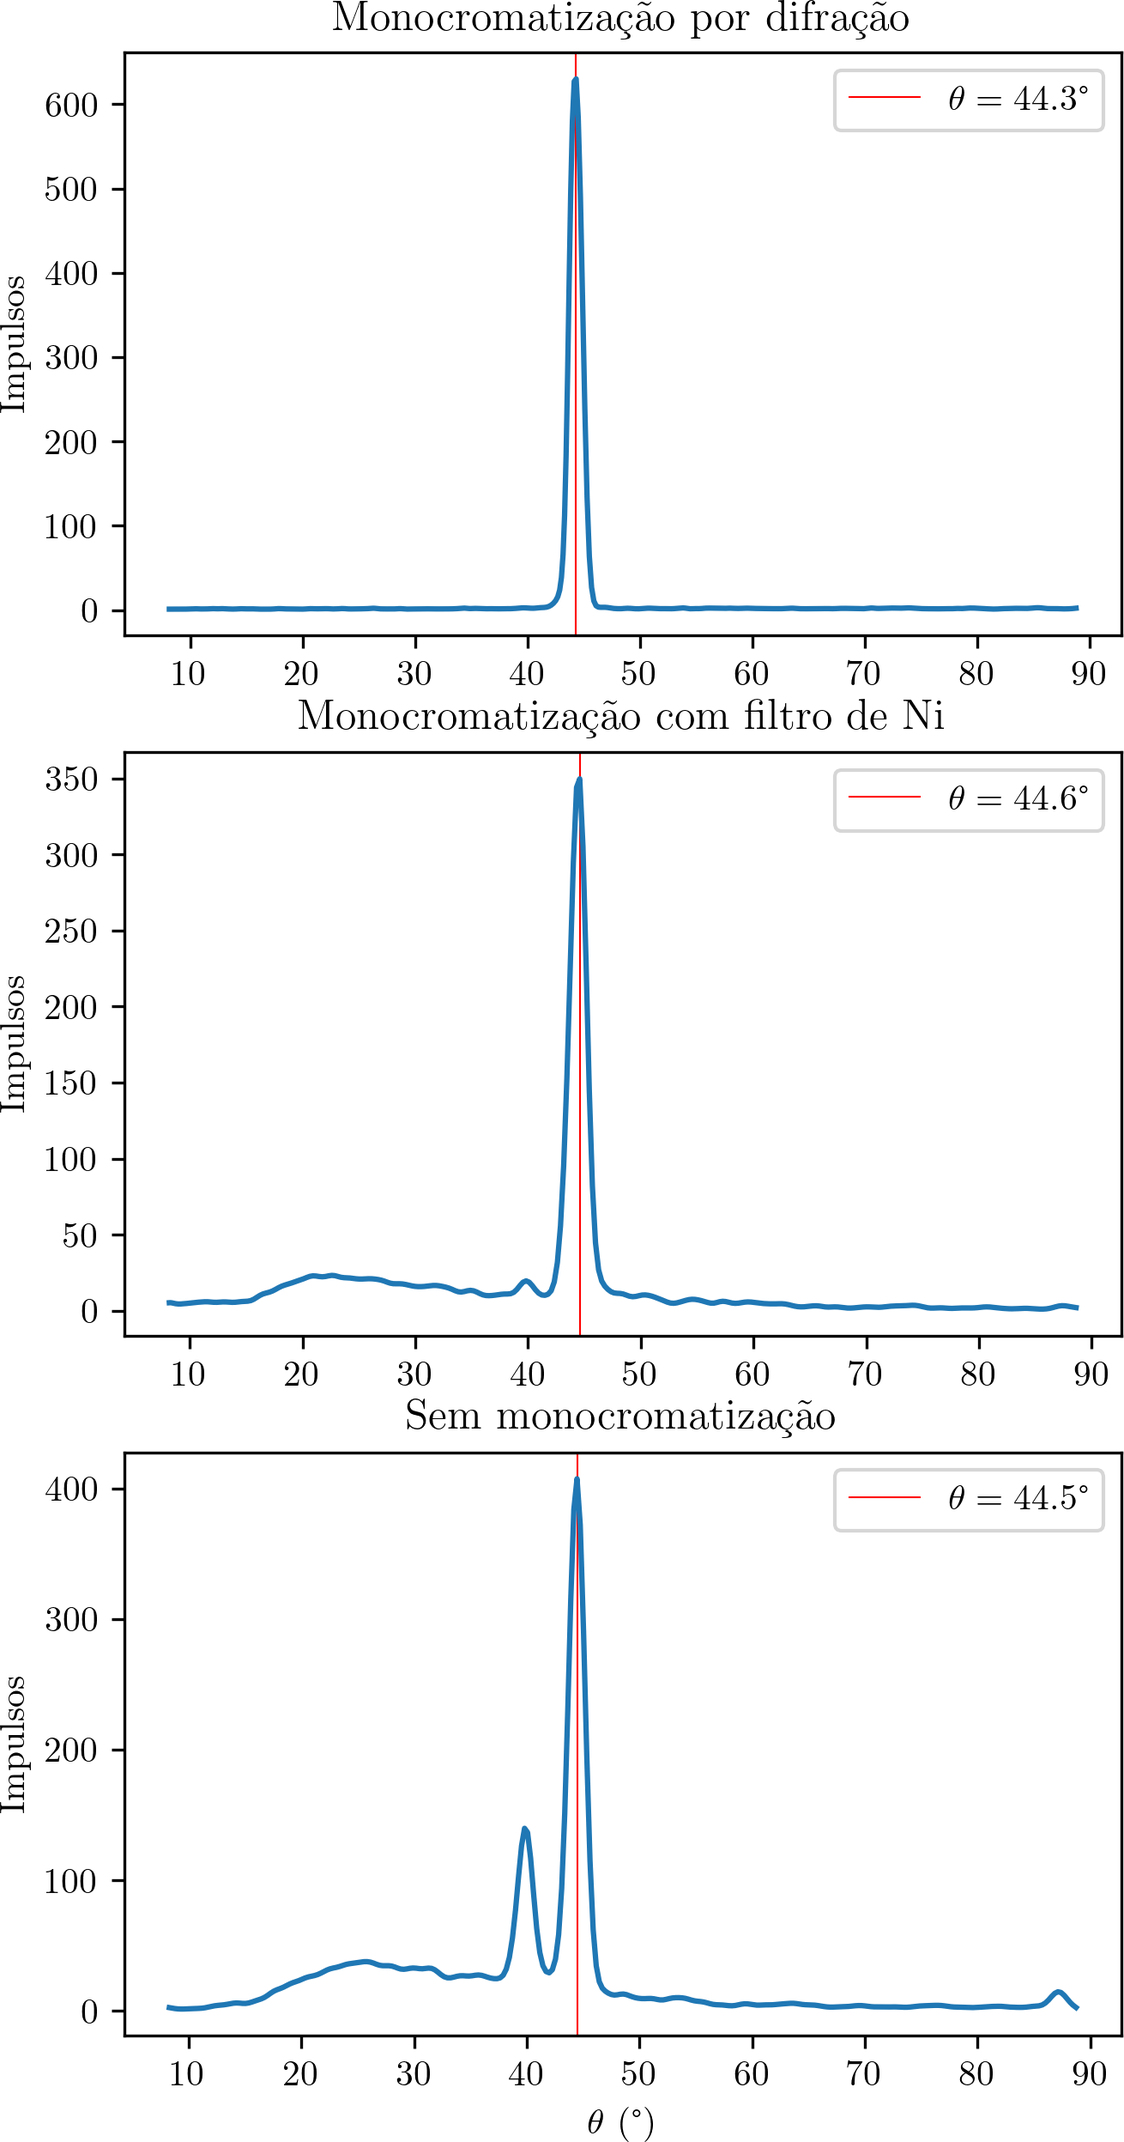
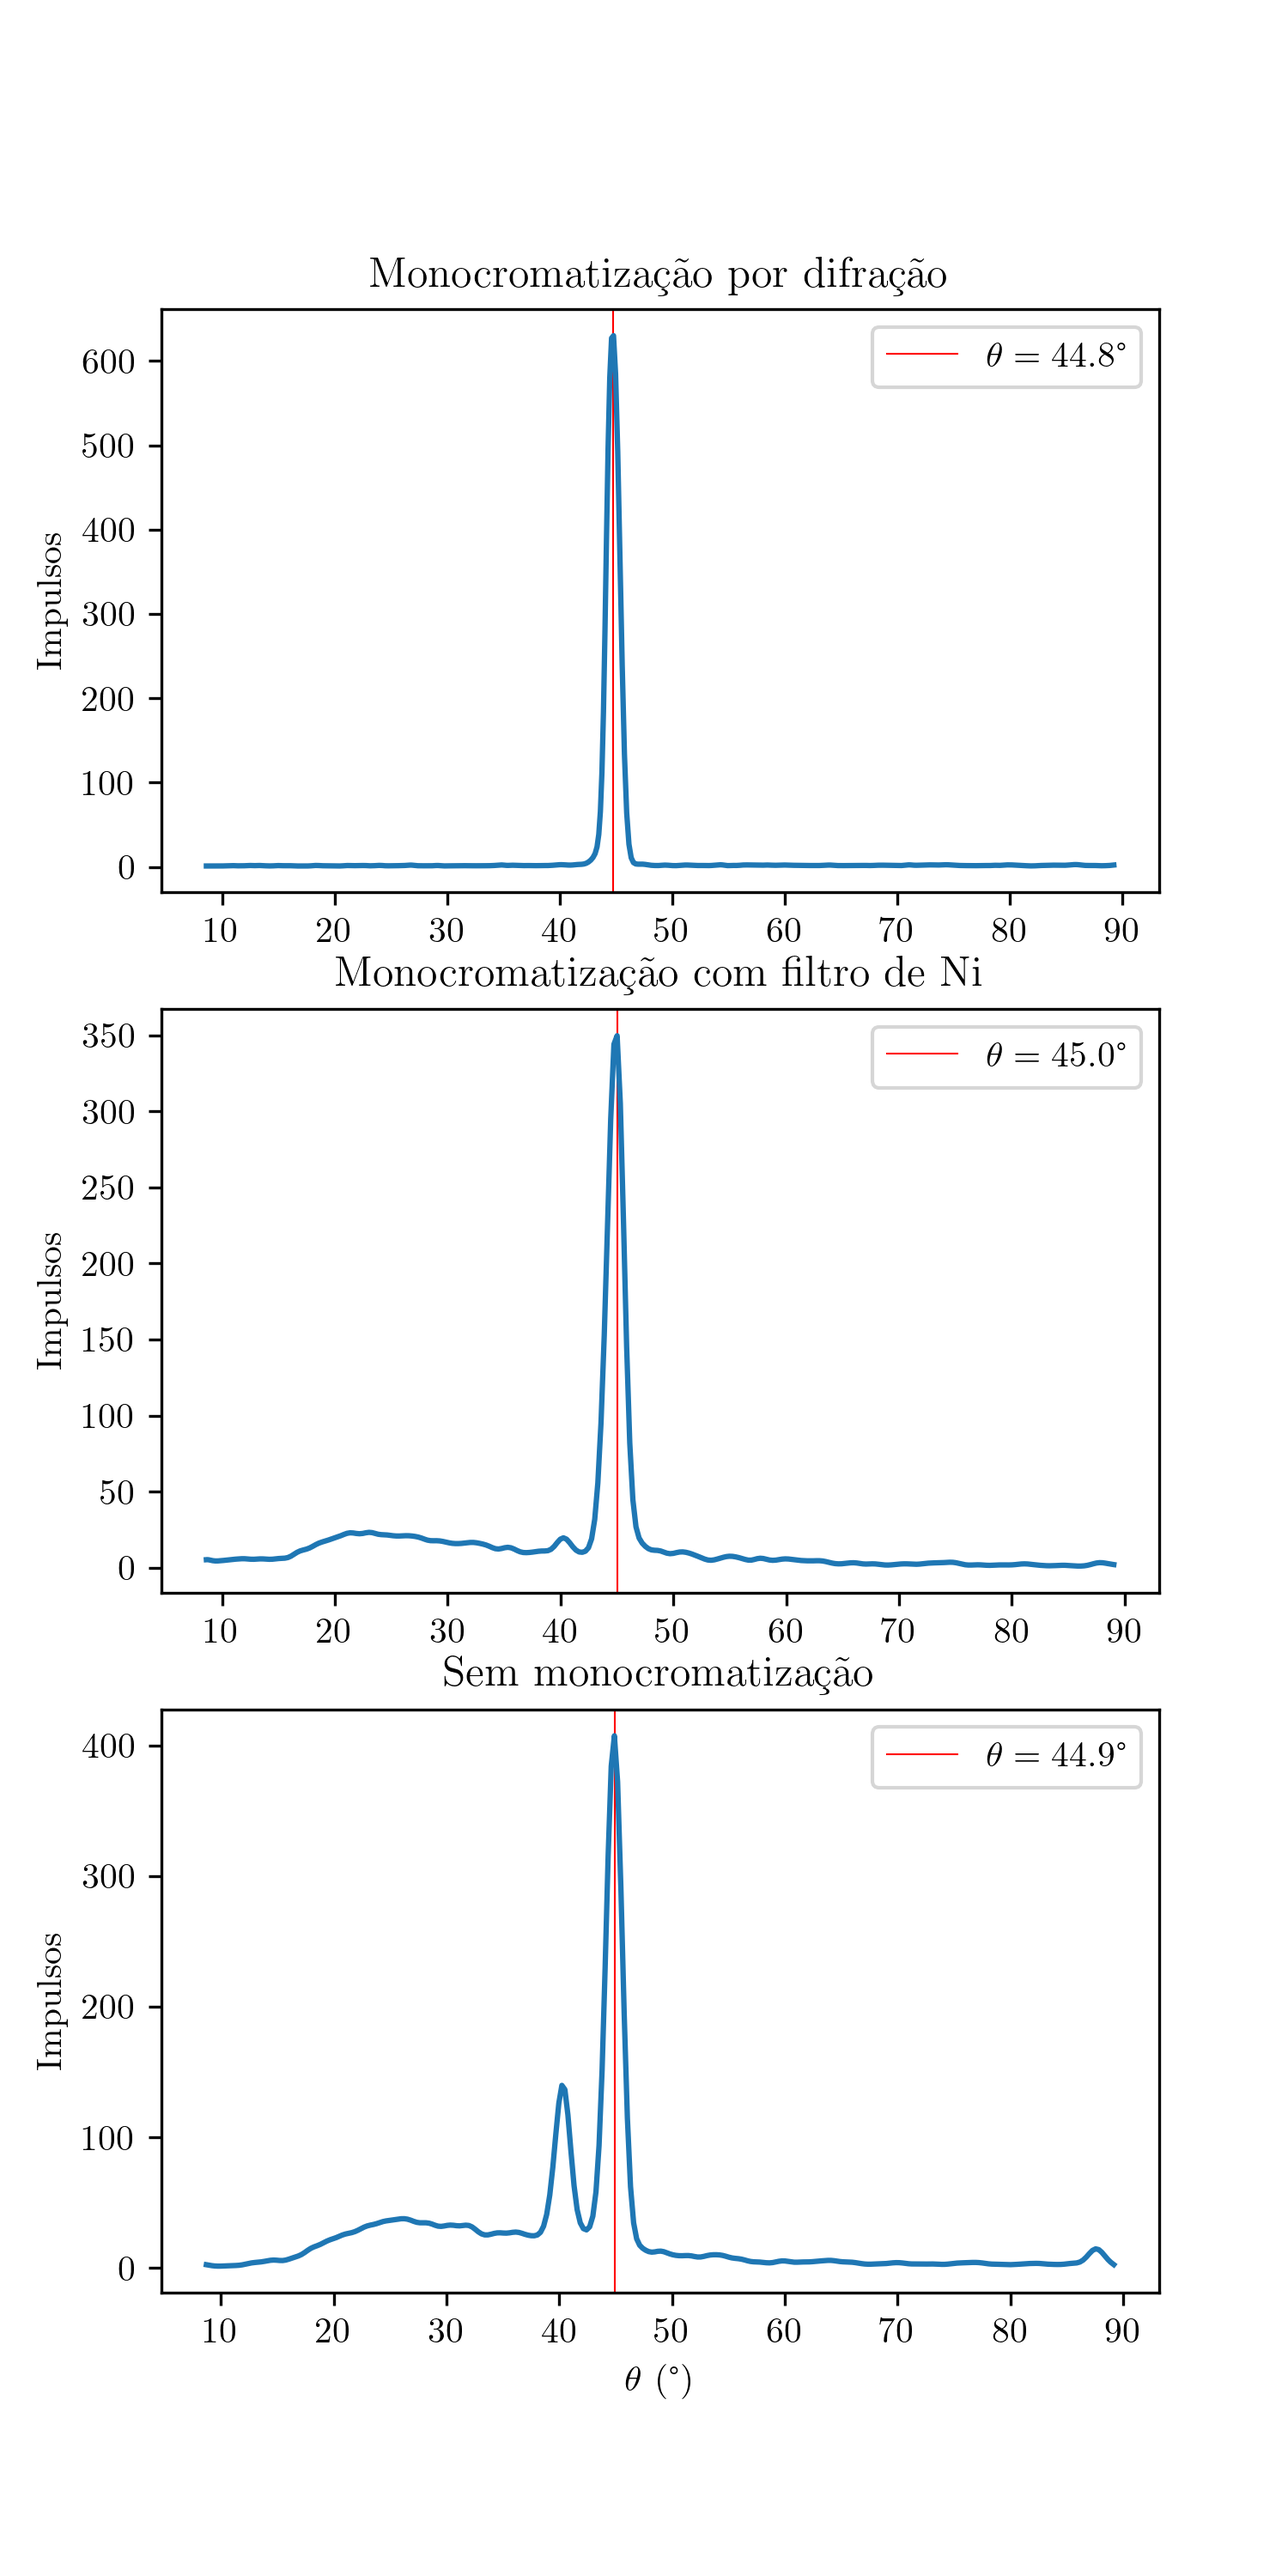
Adding correction to the angles

Changed region(s): [[0.0, 0.0, 1.0, 1.0], [0.0, 0.1234, 0.0305, 0.1852], [0.458, 0.9567, 0.4885, 0.9876]]

diff --git a/monochrom.py b/monochrom.py
@@ -43,10 +43,14 @@ fig, axes = plt.subplots(3, 1)
 
 axes[-1].set(xlabel=r"$\theta$ (\si{\degree})")
 
+# Adding correction to the angles based on the result of angular.py
+correction_df = pd.read_csv("results/angular_result.csv", decimal=",")
+correction = correction_df.loc[0, "center"]
+
 peak_angles = []
 
 for ax, df, type in zip(axes, dfs, monochrom_types):
-    x_data = gaussian_filter1d(df.loc[:, "Angle"], sigma=2)
+    x_data = gaussian_filter1d(df.loc[:, "Angle"], sigma=2) + correction
     y_data = gaussian_filter1d(df.loc[:, "Impulses"], sigma=2)
 
     x_data_ref = gaussian_filter1d(df_ref.loc[:, "Angle"], sigma=2)
